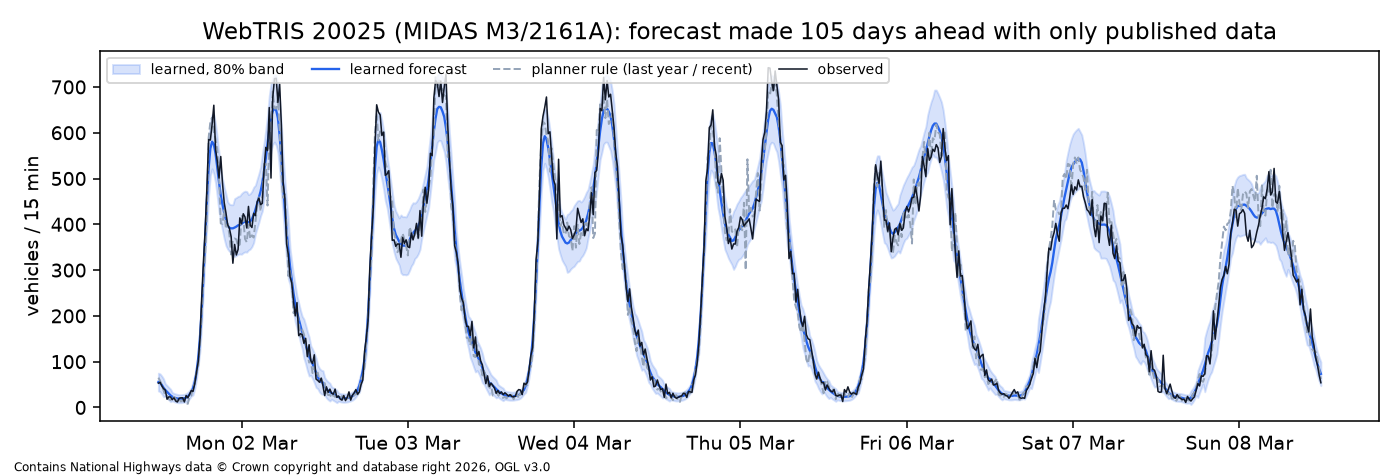
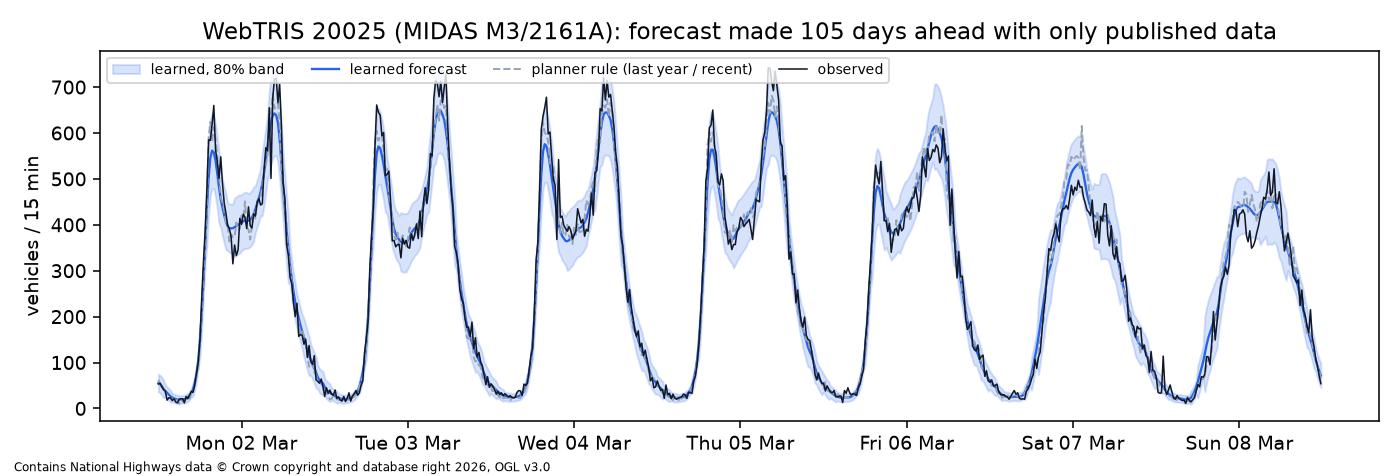
fix: compare against a five-week year-ago median and calibrate at the forecast lag
Review of PR #8 found the 17% headline came from beating a one-day year-ago lookup. Add
year_median (five same weekdays around 52 weeks earlier) and make planner_rule use it; at
M3 J14 ridge now beats it by 4%, and the notes say so. Conformal calibration now fits the
model lag_days before the calibration window, so interval width matches the real horizon.

Also from the review:
- a day with any call of unknown size has unknown passengers (NA), not zero, and is dropped
- clock-change days with 100 rows are marked incomplete instead of double-counting 01:00
- arrival/departure-hour features are keyed by arrival day, like cruise_days
- backtest refits each model on train+cal before predicting the test month

diff --git a/src/sotonship26/flow_forecast.py b/src/sotonship26/flow_forecast.py
@@ -5,12 +5,14 @@ M271 / M3 approaches carry on that day before any cruise effect? WebTRIS publish
 months late, so a forecast for day D may only use counts from before D - ``lag_days``.
 
 Models, all scored on days after ``cutoff`` with the same lag rule:
-  last_year     the same weekday 52 weeks earlier (the planner's usual rule of thumb)
+  last_year     the same weekday 52 weeks earlier (one day, so noisy)
+  year_median   median of the same weekday over the five weeks centred on 52 weeks earlier
   recent_median median of the same weekday over the 4 newest weeks that are published by then
-  planner_rule  last_year when published, else recent_median
+  planner_rule  year_median when available, else recent_median
   ridge         learned: per-bin ridge regression on calendar features (weekday x season,
                 bank holidays, Christmas week, trend), refit at each test month on published data
-Intervals: split conformal on the newest published 20% of days before each refit.
+Intervals: split conformal on the newest published 20% of days before each refit, with the
+model for those errors fitted ``lag_days`` earlier so the interval matches the forecast horizon.
 """
 
 from __future__ import annotations
@@ -69,6 +71,13 @@ def last_year(target: date, by_date: dict, lag: int) -> np.ndarray | None:
     return by_date.get(ref)
 
 
+def year_median(target: date, by_date: dict, lag: int) -> np.ndarray | None:
+    """Median of the same weekday over the five weeks centred on 52 weeks earlier."""
+    refs = [target - timedelta(days=364 + 7 * k) for k in range(-2, 3)]
+    rows = [by_date[d] for d in refs if (target - d).days >= lag and d in by_date]
+    return np.median(np.stack(rows), axis=0) if len(rows) >= 3 else None
+
+
 def recent_median(target: date, by_date: dict, lag: int) -> np.ndarray | None:
     newest = target - timedelta(days=lag)
     rows = [by_date[d] for d in (newest - timedelta(days=i) for i in range(28))
@@ -77,13 +86,28 @@ def recent_median(target: date, by_date: dict, lag: int) -> np.ndarray | None:
 
 
 def planner_rule(target: date, by_date: dict, lag: int) -> np.ndarray | None:
-    """What a planner would do: same weekday last year if published, else the recent median."""
-    p = last_year(target, by_date, lag)
+    """What a careful planner would do: the year-ago five-week median, else the recent median."""
+    p = year_median(target, by_date, lag)
     return p if p is not None else recent_median(target, by_date, lag)
 
 
-BASELINES = (("last_year", last_year), ("recent_median", recent_median),
-             ("planner_rule", planner_rule))
+BASELINES = (("last_year", last_year), ("year_median", year_median),
+             ("recent_median", recent_median), ("planner_rule", planner_rule))
+
+
+def lagged_split(dates: np.ndarray, idx: np.ndarray, lag: int,
+                 frac: float = 0.2) -> tuple[np.ndarray, np.ndarray]:
+    """Calibration = newest ``frac`` of ``idx``; proper = days published before the first of them.
+
+    The gap means calibration errors are made at the same lag as real forecasts, so the
+    conformal interval is sized for forecasting months ahead rather than the next day.
+    """
+    n_cal = max(20, int(len(idx) * frac))
+    cal = idx[-n_cal:]
+    first_cal = dates[cal[0]]
+    proper = np.array([i for i in idx[:-n_cal] if dates[i] <= first_cal - timedelta(days=lag)],
+                      dtype=int)
+    return proper, cal
 
 
 def backtest_site(site: int, dates: np.ndarray, y: np.ndarray, cutoff: date,
@@ -101,8 +125,10 @@ def backtest_site(site: int, dates: np.ndarray, y: np.ndarray, cutoff: date,
         if published.sum() < 120:
             continue
         pub_idx = np.flatnonzero(published)
-        n_cal = max(20, int(len(pub_idx) * 0.2))
-        proper, cal = pub_idx[:-n_cal], pub_idx[-n_cal:]
+        proper, cal = lagged_split(dates, pub_idx, lag)
+        if len(proper) < 60:
+            continue
+        n_cal = len(cal)
         model = Ridge(features=CAL_FEATURES).fit(feats.iloc[proper], y[proper])
         half_ridge = conformal_halfwidth(y[cal] - model.predict(feats.iloc[cal]))
         final = Ridge(lam=model.lam, features=CAL_FEATURES).fit(feats.iloc[pub_idx], y[pub_idx])
@@ -146,12 +172,13 @@ def backtest_site(site: int, dates: np.ndarray, y: np.ndarray, cutoff: date,
     return table
 
 
-def forecast(dates: np.ndarray, y: np.ndarray, targets: list[date]) -> pd.DataFrame:
+def forecast(dates: np.ndarray, y: np.ndarray, targets: list[date],
+             lag: int = LAG_DAYS) -> pd.DataFrame:
     """Fit ridge on every published day and forecast ``targets`` with 80% intervals."""
-    n_cal = max(20, int(len(dates) * 0.2))
+    proper, cal = lagged_split(dates, np.arange(len(dates)), lag)
     feats = calendar_features(dates)
-    model = Ridge(features=CAL_FEATURES).fit(feats.iloc[:-n_cal], y[:-n_cal])
-    half = conformal_halfwidth(y[-n_cal:] - model.predict(feats.iloc[-n_cal:]))
+    model = Ridge(features=CAL_FEATURES).fit(feats.iloc[proper], y[proper])
+    half = conformal_halfwidth(y[cal] - model.predict(feats.iloc[cal]))
     final = Ridge(lam=model.lam, features=CAL_FEATURES).fit(feats, y)
     pred = final.predict(calendar_features(targets))
     rows = [pd.DataFrame({"date": d, "tod_bin": np.arange(96), "flow_veh": p,
@@ -198,6 +225,11 @@ def main(argv: list[str] | None = None) -> int:
     table.to_csv(out_dir / "flow_forecast_table.csv", index=False)
     cols = ["site_id", "versus", "model", "n_test_days", "mae_veh_per_15min",
             "skill_vs_baseline", "wape_pct", "coverage80", "width80_veh"]
+    worst = (table.dropna(subset=["skill_vs_baseline"])
+             .sort_values("skill_vs_baseline").groupby("site_id").head(1)
+             [["site_id", "versus", "n_test_days", "skill_vs_baseline"]]
+             .rename(columns={"versus": "strongest_baseline",
+                              "skill_vs_baseline": "ridge_skill_vs_strongest"}))
     text = "\n".join([
         "# Everyday traffic forecast on the dock approaches: learned model vs baselines",
         "",
@@ -211,13 +243,24 @@ def main(argv: list[str] | None = None) -> int:
         "(sensor gaps differ). `skill` = 1 - MAE(ridge) / MAE(baseline): above 0 means the "
         "learned model wins. `coverage80` should be near 0.80.",
         "",
+        "## Headline: ridge against the strongest baseline at each site",
+        "",
+        md_table(worst),
+        "",
+        "## All comparisons",
+        "",
         md_table(table[cols]),
         "",
         "![One test week at M3 J14](figures/flow_forecast_20025.png)",
         "",
-        "Reading it: sites with a long, continuous record (20025 M3 J14, 19974 M271 NB) are the "
-        "trustworthy results. 20313/20605 have under 30 comparable test days and patchy sensor "
-        "data, so their scores are noise. 7588 and 19796 have no test days after the cutoff.",
+        "Reading it: only 20025 (M3 J14) has a long enough record to compare with every "
+        "baseline over a full test year. There the learned model is a small but real "
+        "improvement on a careful planner (median of five same weekdays a year earlier). It is "
+        "a large improvement on the one-day year-ago lookup and the recent median. At 19974 "
+        "(M271 NB) the year-ago baselines only exist for a handful of test days, so its "
+        "reliable comparison is against the recent median. 20313/20605 have under 30 comparable "
+        "test days and patchy sensor data, so their scores are noise. 7588 and 19796 have no "
+        "test days after the cutoff.",
         "",
         "Cruise days are not removed (no historic cruise list yet, see SOT-21), so these "
         "forecasts are 'typical traffic including the average cruise effect'. Forward "

diff --git a/src/sotonship26/backtest.py b/src/sotonship26/backtest.py
@@ -38,15 +38,16 @@ def day_features(days: pd.DataFrame, calls: pd.DataFrame | None = None) -> pd.Da
     d = days.assign(date=pd.to_datetime(days["date"]).dt.date).set_index("date")
     out = pd.DataFrame(index=d.index)
     for side in ("western", "eastern", "unknown"):
-        out[f"pax_{side}"] = d.get(f"pax_{side}", 0).fillna(0) / 1000
-    total = out[["pax_western", "pax_eastern", "pax_unknown"]].sum(axis=1)
+        col = d[f"pax_{side}"] if f"pax_{side}" in d else pd.Series(0.0, index=d.index)
+        out[f"pax_{side}"] = col.astype(float) / 1000  # NaN = a call of unknown size
+    total = out[["pax_western", "pax_eastern", "pax_unknown"]].sum(axis=1, skipna=False)
     weekend = pd.Series([x.weekday() >= 5 for x in out.index], index=out.index)
     out["pax_weekend"] = total * weekend
     out["pax_dep_shift"] = 0.0
     out["pax_arr_shift"] = 0.0
     if calls is not None and len(calls):
         c = calls.dropna(subset=["passengers"]).copy()
-        c["date"] = c["departure"].dt.tz_convert("Europe/London").dt.date
+        c["date"] = c["arrival"].dt.date  # same day key as cruise_history.cruise_days
         dep = c["departure"].dt.tz_convert("Europe/London")
         arr = c["arrival"].dt.tz_convert("Europe/London")
         c["dep_h"] = dep.dt.hour + dep.dt.minute / 60 - 17
@@ -241,6 +242,9 @@ def backtest_site(site_id: int, dates: np.ndarray, y: np.ndarray, feats: pd.Data
         model = cls().fit(f.iloc[proper], y[proper])
         resid = y[cal] - model.predict(f.iloc[cal])
         half = conformal_halfwidth(resid)
+        # refit on the whole training period so e.g. last_day can use the newest cruise days
+        model = (Ridge(lam=model.lam) if isinstance(model, Ridge) else cls()).fit(
+            f.iloc[idx_train], y[idx_train])
         pred = model.predict(f.iloc[test])
         prob = event_probability(pred, resid, threshold)
         rows += score(model.name, y[test], pred, half, prob, threshold, cruise_test)

diff --git a/tests/test_flow_forecast.py b/tests/test_flow_forecast.py
@@ -8,9 +8,11 @@ import pandas as pd
 from sotonship26.flow_forecast import (
     backtest_site,
     calendar_features,
+    lagged_split,
     last_year,
     recent_median,
     site_days,
+    year_median,
 )
 
 SHAPE = 150 + 120 * np.sin(np.linspace(0, np.pi, 96))
@@ -56,3 +58,18 @@ def test_ridge_beats_baselines_on_seasonal_synthetic():
     assert vs.loc["ridge", "mae_veh_per_15min"] < vs.loc["recent_median", "mae_veh_per_15min"]
     assert vs.loc["ridge", "skill_vs_baseline"] > 0
     assert 0.6 < vs.loc["ridge", "coverage80"] < 0.97
+
+
+def test_year_median_needs_three_published_weeks():
+    target = date(2025, 6, 4)
+    by_date = {target - timedelta(days=364 + 7 * k): np.full(96, float(k)) for k in range(-2, 3)}
+    assert np.allclose(year_median(target, by_date, 105), 0.0)
+    two = {d: v for d, v in list(by_date.items())[:2]}
+    assert year_median(target, two, 105) is None
+
+
+def test_lagged_split_leaves_a_publication_gap():
+    dates = np.array([date(2024, 1, 1) + timedelta(days=i) for i in range(500)])
+    proper, cal = lagged_split(dates, np.arange(500), 105)
+    assert len(cal) == 100
+    assert (dates[cal[0]] - dates[proper[-1]]).days >= 105

diff --git a/tests/test_uplift_backtest.py b/tests/test_uplift_backtest.py
@@ -111,3 +111,18 @@ def test_production_model_round_trip(tmp_path):
     assert busy["lo80"] < busy["uplift_veh"] < busy["hi80"]
     assert busy["p_event"] > 0.9 and quiet["p_event"] < 0.2
     assert meta == {"note": "synthetic"}
+
+
+def test_clock_change_days_are_not_complete():
+    from sotonship26.uplift import day_matrix
+
+    def day(d: str) -> pd.DataFrame:
+        t = pd.date_range(pd.Timestamp(d, tz="Europe/London"),
+                          pd.Timestamp(d, tz="Europe/London") + pd.Timedelta(days=1),
+                          freq="15min", inclusive="left")
+        return pd.DataFrame({"site_id": 1, "bin_start": t, "flow_veh": 10.0, "good_day": True})
+
+    # 26 Oct has 96 bins; 27 Oct (clocks go back) has 100 and must not count as complete
+    index, _ = day_matrix(pd.concat([day("2024-10-26"), day("2024-10-27")]))
+    complete = dict(zip(index["date"], index["complete"], strict=True))
+    assert complete[date(2024, 10, 26)] and not complete[date(2024, 10, 27)]

diff --git a/src/sotonship26/uplift.py b/src/sotonship26/uplift.py
@@ -48,10 +48,12 @@ def day_matrix(flows: pd.DataFrame) -> tuple[pd.DataFrame, dict[int, np.ndarray]
         wide = g.pivot_table(index="date", columns="tod_bin", values="flow_veh", aggfunc="sum")
         wide = wide.reindex(columns=range(BINS_PER_DAY))
         good = g.groupby("date")["good_day"].all().reindex(wide.index)
+        # 100 rows = clocks went back and 01:00-02:00 is summed twice, so treat as incomplete
+        rows = g.groupby("date").size().reindex(wide.index)
         mats[site] = wide.to_numpy(dtype=float)
-        for d, ok, n in zip(wide.index, good, wide.notna().sum(axis=1), strict=True):
+        for d, ok, n, r in zip(wide.index, good, wide.notna().sum(axis=1), rows, strict=True):
             index_rows.append({"site_id": site, "date": d, "good_day": bool(ok),
-                               "complete": n == BINS_PER_DAY})
+                               "complete": n == BINS_PER_DAY and r == BINS_PER_DAY})
     return pd.DataFrame(index_rows), mats
 
 

diff --git a/tests/test_cruise_history.py b/tests/test_cruise_history.py
@@ -108,3 +108,14 @@ def test_manual_import_and_vts_precedence(tmp_path):
     days = ch.cruise_days(calls).set_index("date")
     assert days.loc[date(2024, 5, 20), "covered"] and days.loc[date(2024, 5, 20), "n_calls"] == 1
     assert not days.loc[date(2024, 5, 10), "covered"]
+
+
+def test_call_of_unknown_size_makes_day_passengers_unknown():
+    calls = ch.union_snapshots([parsed(EARLY, "2024-06-01T08:00Z")])
+    calls.loc[calls["arrival"].dt.date == date(2024, 6, 5), "passengers"] = pd.NA
+    days = ch.cruise_days(calls, date(2024, 6, 1), date(2024, 6, 7),
+                          windows=[(date(2024, 6, 1), date(2024, 6, 7))])
+    d = days.set_index("date")
+    assert d.loc[date(2024, 6, 5), "n_calls"] == 1
+    assert pd.isna(d.loc[date(2024, 6, 5), "pax_total"])  # unknown, not zero
+    assert d.loc[date(2024, 6, 7), "pax_western"] == 2000

diff --git a/src/sotonship26/data/cruise_history.py b/src/sotonship26/data/cruise_history.py
@@ -303,8 +303,13 @@ def cruise_days(
         for col in DAY_COLUMNS[1:-1]:
             out[col] = pd.NA
     out["n_calls"] = out["n_calls"].fillna(0).astype(int)
-    for col in ("pax_total", "pax_western", "pax_eastern", "pax_unknown"):
+    pax_cols = ["pax_total", "pax_western", "pax_eastern", "pax_unknown"]
+    for col in pax_cols:
         out[col] = out[col].astype("Float64").fillna(0)
+    # a day with any call of unknown size has unknown passengers, not fewer passengers
+    if len(calls):
+        unsized = set(calls.loc[calls["passengers"].isna(), "arrival"].dt.date)
+        out.loc[out["date"].isin(unsized), pax_cols] = pd.NA
     out["covered"] = [any(a <= d <= b for a, b in windows) for d in out["date"]]
     return out[DAY_COLUMNS]
 

diff --git a/notes/flow-forecast.md b/notes/flow-forecast.md
@@ -1,30 +1,42 @@
 # Everyday traffic forecast on the dock approaches: learned model vs baselines
 
-Generated Sat 17 Oct 2026 00:08 by `python -m sotonship26.flow_forecast --cutoff 2025-07-01 --lag 105`. Data: National Highways WebTRIS 15-minute counts, 2024-01-01 to 2026-06-30 (Contains National Highways data, OGL v3.0).
+Generated Sat 17 Oct 2026 00:48 by `python -m sotonship26.flow_forecast --cutoff 2025-07-01 --lag 105`. Data: National Highways WebTRIS 15-minute counts, 2024-01-01 to 2026-06-30 (Contains National Highways data, OGL v3.0).
 
 Each test day after 2025-07-01 is forecast using only counts published 105 days before it, because WebTRIS lags about 3.5 months. Scores cover 05:00-22:00. Ridge is compared with each baseline on the days both can forecast (sensor gaps differ). `skill` = 1 - MAE(ridge) / MAE(baseline): above 0 means the learned model wins. `coverage80` should be near 0.80.
+
+## Headline: ridge against the strongest baseline at each site
+
+| site_id | strongest_baseline | n_test_days | ridge_skill_vs_strongest |
+|---|---|---|---|
+| 19974 | year_median | 17 | -0.29 |
+| 20025 | year_median | 355 | 0.04 |
+| 20313 | planner_rule | 29 | 0.10 |
+
+## All comparisons
 
 | site_id | versus | model | n_test_days | mae_veh_per_15min | skill_vs_baseline | wape_pct | coverage80 | width80_veh |
 |---|---|---|---|---|---|---|---|---|
 | 19974 | last_year | last_year | 17 | 31.56 | nan | 9.20 | 0.83 | 115.84 |
-| 19974 | last_year | ridge | 17 | 31.76 | -0.01 | 9.25 | 0.78 | 96.60 |
-| 19974 | recent_median | recent_median | 178 | 46.46 | nan | 13.06 | 0.72 | 120.85 |
-| 19974 | recent_median | ridge | 178 | 38.64 | 0.17 | 10.86 | 0.75 | 108.24 |
-| 19974 | planner_rule | planner_rule | 178 | 45.24 | nan | 12.72 | 0.74 | 121.95 |
-| 19974 | planner_rule | ridge | 178 | 38.64 | 0.15 | 10.86 | 0.75 | 108.24 |
-| 20313 | planner_rule | planner_rule | 29 | 20.38 | nan | 21.34 | 0.84 | 68.57 |
-| 20313 | planner_rule | ridge | 29 | 27.14 | -0.33 | 28.42 | 0.59 | 55.87 |
-| 20605 | planner_rule | planner_rule | 26 | 19.17 | nan | 22.61 | 0.81 | 55.48 |
-| 20605 | planner_rule | ridge | 26 | 29.71 | -0.55 | 35.05 | 0.47 | 51.03 |
-| 20025 | last_year | last_year | 351 | 43.48 | nan | 11.72 | 0.80 | 130.47 |
-| 20025 | last_year | ridge | 351 | 36.17 | 0.17 | 9.75 | 0.79 | 109.91 |
-| 20025 | recent_median | recent_median | 356 | 48.44 | nan | 13.08 | 0.77 | 132.86 |
-| 20025 | recent_median | ridge | 356 | 36.09 | 0.25 | 9.74 | 0.79 | 109.92 |
-| 20025 | planner_rule | planner_rule | 356 | 43.54 | nan | 11.76 | 0.81 | 131.43 |
-| 20025 | planner_rule | ridge | 356 | 36.09 | 0.17 | 9.74 | 0.79 | 109.92 |
+| 19974 | last_year | ridge | 17 | 32.38 | -0.03 | 9.43 | 0.87 | 121.93 |
+| 19974 | year_median | year_median | 17 | 25.60 | nan | 7.50 | 0.87 | 107.04 |
+| 19974 | year_median | ridge | 17 | 33.05 | -0.29 | 9.69 | 0.87 | 121.93 |
+| 19974 | recent_median | recent_median | 147 | 44.84 | nan | 12.38 | 0.76 | 126.58 |
+| 19974 | recent_median | ridge | 147 | 39.59 | 0.12 | 10.93 | 0.81 | 126.53 |
+| 19974 | planner_rule | planner_rule | 147 | 43.51 | nan | 12.01 | 0.76 | 122.56 |
+| 19974 | planner_rule | ridge | 147 | 39.59 | 0.09 | 10.93 | 0.81 | 126.53 |
+| 20313 | planner_rule | planner_rule | 29 | 19.53 | nan | 20.45 | 0.86 | 69.80 |
+| 20313 | planner_rule | ridge | 29 | 17.56 | 0.10 | 18.39 | 0.90 | 78.79 |
+| 20025 | last_year | last_year | 350 | 43.43 | nan | 11.70 | 0.80 | 130.26 |
+| 20025 | last_year | ridge | 350 | 36.04 | 0.17 | 9.71 | 0.84 | 125.94 |
+| 20025 | year_median | year_median | 355 | 37.41 | nan | 10.10 | 0.80 | 105.52 |
+| 20025 | year_median | ridge | 355 | 35.94 | 0.04 | 9.70 | 0.84 | 125.87 |
+| 20025 | recent_median | recent_median | 355 | 48.46 | nan | 13.08 | 0.77 | 132.70 |
+| 20025 | recent_median | ridge | 355 | 35.94 | 0.26 | 9.70 | 0.84 | 125.87 |
+| 20025 | planner_rule | planner_rule | 355 | 37.41 | nan | 10.10 | 0.80 | 106.68 |
+| 20025 | planner_rule | ridge | 355 | 35.94 | 0.04 | 9.70 | 0.84 | 125.87 |
 
 ![One test week at M3 J14](figures/flow_forecast_20025.png)
 
-Reading it: sites with a long, continuous record (20025 M3 J14, 19974 M271 NB) are the trustworthy results. 20313/20605 have under 30 comparable test days and patchy sensor data, so their scores are noise. 7588 and 19796 have no test days after the cutoff.
+Reading it: only 20025 (M3 J14) has a long enough record to compare with every baseline over a full test year. There the learned model is a small but real improvement on a careful planner (median of five same weekdays a year earlier). It is a large improvement on the one-day year-ago lookup and the recent median. At 19974 (M271 NB) the year-ago baselines only exist for a handful of test days, so its reliable comparison is against the recent median. 20313/20605 have under 30 comparable test days and patchy sensor data, so their scores are noise. 7588 and 19796 have no test days after the cutoff.
 
 Cruise days are not removed (no historic cruise list yet, see SOT-21), so these forecasts are 'typical traffic including the average cruise effect'. Forward forecasts for any date range: `--forecast FROM TO` writes runs/flow_forecast/<site>.csv (date, tod_bin, flow_veh, lo80, hi80).

diff --git a/notes/ml-walkthrough.md b/notes/ml-walkthrough.md
@@ -17,9 +17,12 @@ flag), or we would teach the model that cruise days have no effect.
 A model only counts as AI at the core if it beats something simple a person could do by hand
 (the brief says so, and so do the judges). Each forecaster ships with its baselines:
 
-- `flow_forecast.py`: **last_year** (same weekday 52 weeks ago), **recent_median** (the same
-  weekday over the newest 4 weeks we can see) and **planner_rule** (last year if we have it,
-  else recent).
+- `flow_forecast.py`: **last_year** (same weekday 52 weeks ago, one day so noisy),
+  **year_median** (median of the five same weekdays around 52 weeks ago), **recent_median** (the
+  same weekday over the newest 4 weeks we can see) and **planner_rule** (year_median if we have
+  it, else recent). Always quote skill against the *strongest* baseline: beating a weak one is
+  easy. Our first draft compared against last_year only and claimed 17%; against year_median the
+  same model wins by 4%.
 - `backtest.py`: **zero** (no cruise effect), **last_day** (the most comparable earlier cruise
   day, which is the brief's own suggestion) and **pax_linear** (uplift proportional to
   passengers).
@@ -68,9 +71,13 @@ honest about uncertainty.
 
 ## 7. What the numbers say tonight
 
-- **Everyday traffic** (`notes/flow-forecast.md`): at M3 J14 (356 test days) the learned model
-  beats the planner rule by **17%** MAE, with WAPE 9.7% vs 11.8% and 80% intervals covering
-  79%. At M271 NB (178 days) it wins by **15%**. Sites with under 30 comparable days are noise.
+- **Everyday traffic** (`notes/flow-forecast.md`): at M3 J14 (355 test days) the learned model
+  beats a careful planner (year_median) by **4%** MAE (35.9 vs 37.4 vehicles per 15 min, WAPE
+  9.7% vs 10.1%). It beats the one-day year-ago lookup by 17% and the recent median by 26%. Its
+  80% intervals cover 84%, a little wide; year_median's own intervals are narrower (106 vs 126
+  vehicles) at 80%. At M271 NB it beats the recent median by 12% over 147 days, but the
+  year-ago baselines exist for only 17 test days there, so we cannot say it beats a planner. Sites with under 30 comparable days are noise. Honest headline:
+  the model is a small, real improvement on the best hand rule, not a big one.
 - **Cruise uplift** (`notes/backtest.md` once labels exist): blocked. No permitted source has
   past cruise calls (`notes/cruise-history.md`, SOT-21). The code is tested on synthetic data
   with a known effect (`tests/test_uplift_backtest.py`) and runs as soon as a call list lands.
